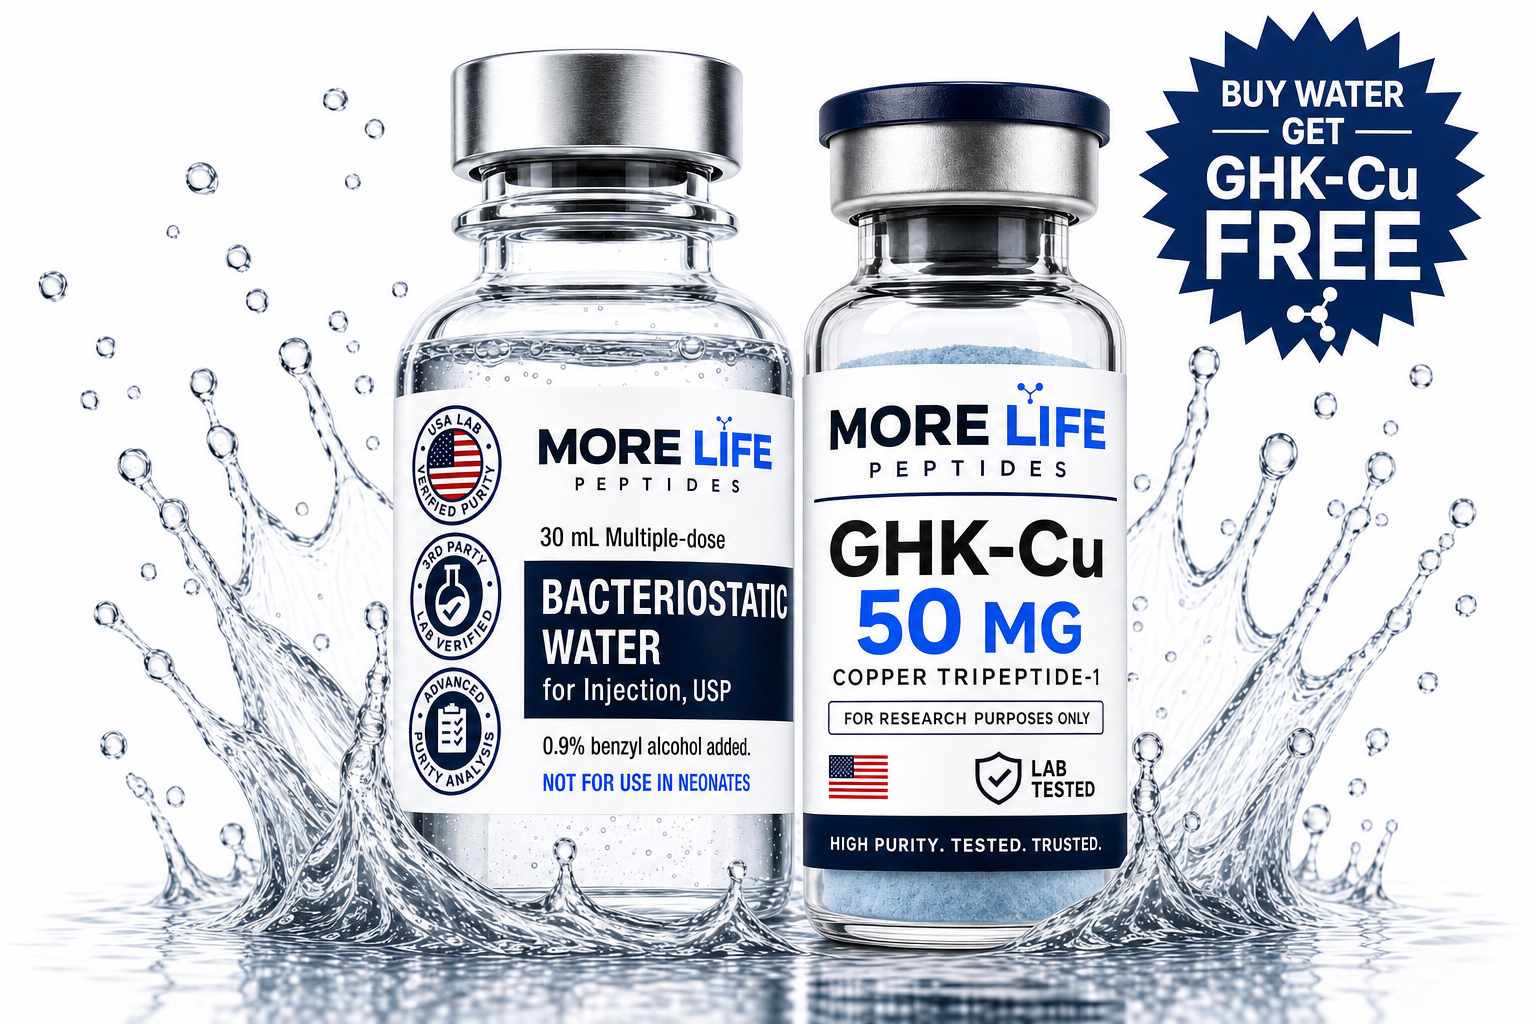
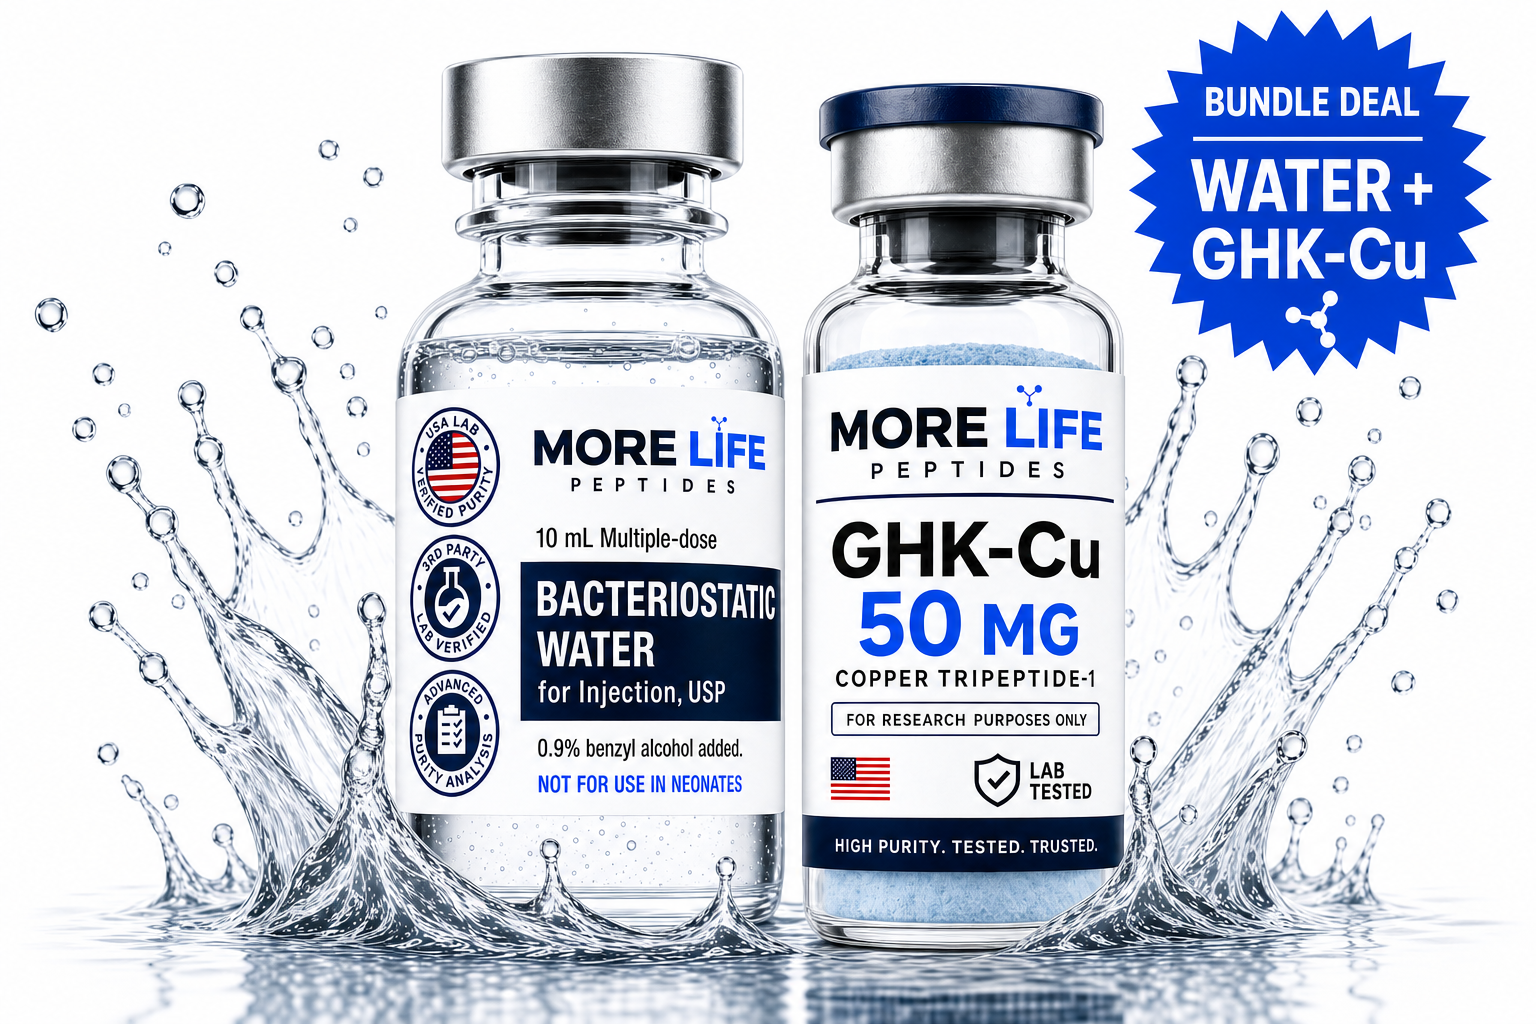
Reframe GHK page as bundle deal with water (not free)

diff --git a/client/src/pages/BuyGhkcu.tsx b/client/src/pages/BuyGhkcu.tsx
@@ -39,7 +39,7 @@ export default function BuyGhkcu() {
           <div className="flex items-center gap-3 mb-6">
             <span className="inline-flex items-center gap-1.5 px-3 py-1 rounded-full bg-[hsl(221,83%,53%)]/10 text-[hsl(221,83%,53%)] text-[11px] font-extrabold tracking-[0.18em] uppercase" data-testid="badge-launch-offer">
               <Star className="w-3 h-3" />
-              Launch Offer
+              Bundle Deal
             </span>
             <span className="text-[12px] font-semibold text-slate-600">Limited Time · While Supplies Last</span>
           </div>
@@ -49,7 +49,7 @@ export default function BuyGhkcu() {
             <div className="lg:col-span-7 rounded-2xl overflow-hidden border border-slate-200 bg-white shadow-md" data-testid="img-water-ghkcu-combo">
               <img
                 src={waterGhkcuCombo}
-                alt="Buy bacteriostatic water, get GHK-Cu 50MG free"
+                alt="GHK-Cu bundle deal with 10 mL bacteriostatic water"
                 className="w-full h-auto block"
               />
             </div>
@@ -57,32 +57,30 @@ export default function BuyGhkcu() {
             {/* Offer panel */}
             <div className="lg:col-span-5">
               <h1 className="text-[42px] md:text-[52px] font-black leading-[1.05] text-[#0A1628] tracking-tight" data-testid="text-offer-headline">
-                Buy Water.
+                GHK-Cu
                 <br />
-                <span className="text-[hsl(221,83%,53%)]">Get GHK-Cu FREE.</span>
+                <span className="text-[hsl(221,83%,53%)]">Bundle Deal With Water.</span>
               </h1>
 
               <p className="text-[16px] text-slate-700 leading-relaxed mt-5" data-testid="text-offer-subhead">
-                Order a 10 mL vial of our USP-grade <strong>Sterile Water with 0.9% Benzyl Alcohol</strong> and we'll send you a vial of
-                <strong> GHK-Cu 50 MG (Copper Tripeptide-1)</strong> on the house. One free research-grade peptide vial,
-                bundled with every water order — shipped together, cold-chain protected.
+Order our <strong>10 mL USP-grade Sterile Water with 0.9% Benzyl Alcohol</strong> and it ships bundled with a vial of
+                <strong> GHK-Cu 50 MG (Copper Tripeptide-1)</strong>. One simple bundle deal — two research-grade products
+                in one cold-chain package.
               </p>
 
               {/* Price block */}
               <div className="mt-7 rounded-xl border border-slate-200 bg-white p-5 shadow-sm" data-testid="block-pricing">
                 <div className="flex items-baseline justify-between mb-1">
-                  <span className="text-[13px] uppercase font-bold tracking-[0.14em] text-slate-500">You Pay (Water)</span>
+                  <span className="text-[13px] uppercase font-bold tracking-[0.14em] text-slate-500">Bundle Price</span>
                   <span className="text-[28px] font-black text-[#0A1628]">$65</span>
                 </div>
                 <div className="flex items-baseline justify-between mb-1">
-                  <span className="text-[13px] uppercase font-bold tracking-[0.14em] text-[hsl(221,83%,53%)]">You Get (GHK-Cu Vial)</span>
-                  <span className="text-[16px] font-black text-[hsl(221,83%,53%)]">
-                    <span className="line-through text-slate-400 font-bold mr-2">$65</span>FREE
-                  </span>
+                  <span className="text-[13px] uppercase font-bold tracking-[0.14em] text-[hsl(221,83%,53%)]">Includes</span>
+                  <span className="text-[14px] font-bold text-[hsl(221,83%,53%)]">10 mL Water + GHK-Cu 50 MG</span>
                 </div>
                 <div className="mt-3 pt-3 border-t border-slate-200 flex items-baseline justify-between">
-                  <span className="text-[12px] font-bold text-slate-600 uppercase tracking-wider">Total Value</span>
-                  <span className="text-[16px] font-extrabold text-emerald-600">Save $65</span>
+                  <span className="text-[12px] font-bold text-slate-600 uppercase tracking-wider">One Bundle. Two Products.</span>
+                  <span className="text-[16px] font-extrabold text-emerald-600">Ships Together</span>
                 </div>
               </div>
 
@@ -94,7 +92,7 @@ export default function BuyGhkcu() {
                 className="mt-6 inline-flex items-center justify-center gap-2 w-full px-6 py-4 rounded-xl bg-[hsl(221,83%,53%)] hover:bg-[hsl(221,83%,47%)] text-white text-[16px] font-extrabold tracking-wide transition-colors shadow-lg shadow-[hsl(221,83%,53%)]/25"
                 data-testid="link-buy-now"
               >
-Ready to Buy  →
+Get the Bundle Deal  →
               </a>
 
               <p className="text-[11px] text-slate-500 mt-3 text-center" data-testid="text-cta-microcopy">
@@ -123,8 +121,7 @@ Ready to Buy  →
                 <p className="text-[15px] text-slate-700 leading-relaxed mt-2">
                   While our complete site-wide checkout is being completed, we wanted our earliest researchers to still get their hands on
                   More Life Peptides products — so here's our solution: <strong>order a vial of our USP-grade bacteriostatic water</strong>
-                  through our fully-secured partner checkout, and we'll <strong>ship a free vial of RETA 30 MG</strong> alongside it,
-                  bundled in the same cold-chain package. No catch, no upcharge — just a thank-you for being early.
+                  through our fully-secured partner checkout as a <strong>bundle deal</strong>: <strong>10 mL USP-grade sterile water + GHK-Cu 50 MG</strong> ship together in the same cold-chain package. One price, two products, no catch.
                 </p>
               </div>
             </div>
@@ -134,7 +131,7 @@ Ready to Buy  →
           <div className="grid grid-cols-1 md:grid-cols-3 gap-6">
             {[
               { n: "01", t: "Order the Water", d: "Click the button above and check out securely through our partner cart for the 10 mL USP-grade sterile water." },
-              { n: "02", t: "We Bundle the GHK-Cu", d: "Every water order auto-ships with a free vial of GHK-Cu 50 MG — lyophilized, lab-tested, no extra steps." },
+              { n: "02", t: "GHK-Cu Bundled In", d: "Every water order auto-ships with a vial of GHK-Cu 50 MG — lyophilized, lab-tested, no extra steps." },
               { n: "03", t: "Track & Receive", d: "Cold-chain shipped together. You get your COA, tracking, and both products in one box." },
             ].map((step) => (
               <div key={step.n} className="rounded-xl border border-slate-200 bg-white p-6" data-testid={`card-step-${step.n}`}>
@@ -179,22 +176,21 @@ Ready to Buy  →
             <div className="rounded-2xl border-2 border-[hsl(221,83%,53%)] bg-white overflow-hidden shadow-md relative" data-testid="card-ghkcu-detail">
               <div className="absolute top-4 right-4 z-10 inline-flex items-center gap-1.5 px-3 py-1.5 rounded-full bg-[hsl(221,83%,53%)] text-white text-[11px] font-extrabold tracking-[0.14em] uppercase shadow-md">
                 <Star className="w-3 h-3" />
-                FREE
+                Bundled
               </div>
               <div className="bg-gradient-to-br from-[#F8FAFC] to-white p-6 flex items-center justify-center min-h-[360px]">
                 <img src={specGhkcu} alt="GHK-Cu 50 MG spec sheet" className="max-h-[340px] w-auto" />
               </div>
               <div className="p-6 border-t border-slate-200">
                 <div className="flex items-center gap-2 mb-2">
-                  <span className="text-[11px] font-extrabold tracking-[0.18em] text-[hsl(221,83%,53%)] uppercase">Included Free</span>
+                  <span className="text-[11px] font-extrabold tracking-[0.18em] text-[hsl(221,83%,53%)] uppercase">Included In Bundle</span>
                 </div>
                 <h3 className="text-[22px] font-extrabold text-[#0A1628]">GHK-Cu 50 MG · Copper Tripeptide-1</h3>
                 <p className="text-[14px] text-slate-600 mt-2">
                   Copper-binding tripeptide research compound. 50 mg light-sensitive blue powder, ≥99% HPLC.
                 </p>
                 <div className="mt-4 flex items-baseline gap-3">
-                  <span className="text-[24px] font-black text-[hsl(221,83%,53%)]">FREE</span>
-                  <span className="text-[14px] line-through text-slate-400 font-semibold">$65.00</span>
+                  <span className="text-[18px] font-extrabold text-[hsl(221,83%,53%)]">Ships with Water Bundle</span>
                 </div>
               </div>
             </div>
@@ -204,10 +200,10 @@ Ready to Buy  →
           <div className="mt-12 rounded-2xl bg-[#0A1628] p-8 md:p-10 text-center" data-testid="block-bottom-cta">
             <Star className="w-8 h-8 text-[hsl(221,83%,63%)] mx-auto mb-3" />
             <h3 className="text-[26px] md:text-[32px] font-extrabold text-white tracking-tight">
-              Ready to claim your free GHK-Cu?
+              Ready to grab the bundle?
             </h3>
             <p className="text-[15px] text-slate-300 mt-3 max-w-xl mx-auto">
-              Order the water through our partner cart and we'll bundle your GHK-Cu vial automatically. No promo code needed.
+              Order the 10 mL water through our partner cart and your GHK-Cu vial ships bundled with it automatically. No promo code needed.
             </p>
             <a
               href={PURCHASE_LINK}
@@ -216,7 +212,7 @@ Ready to Buy  →
               className="mt-6 inline-flex items-center justify-center gap-2 px-8 py-4 rounded-xl bg-[hsl(221,83%,53%)] hover:bg-[hsl(221,83%,47%)] text-white text-[15px] font-extrabold tracking-wide transition-colors shadow-lg"
               data-testid="link-buy-now-bottom"
             >
-              Buy Water + Claim Free RETA  →
+Get the Bundle Deal  →
             </a>
             <p className="text-[11px] text-slate-400 mt-4">Research use only · Not for human consumption</p>
           </div>